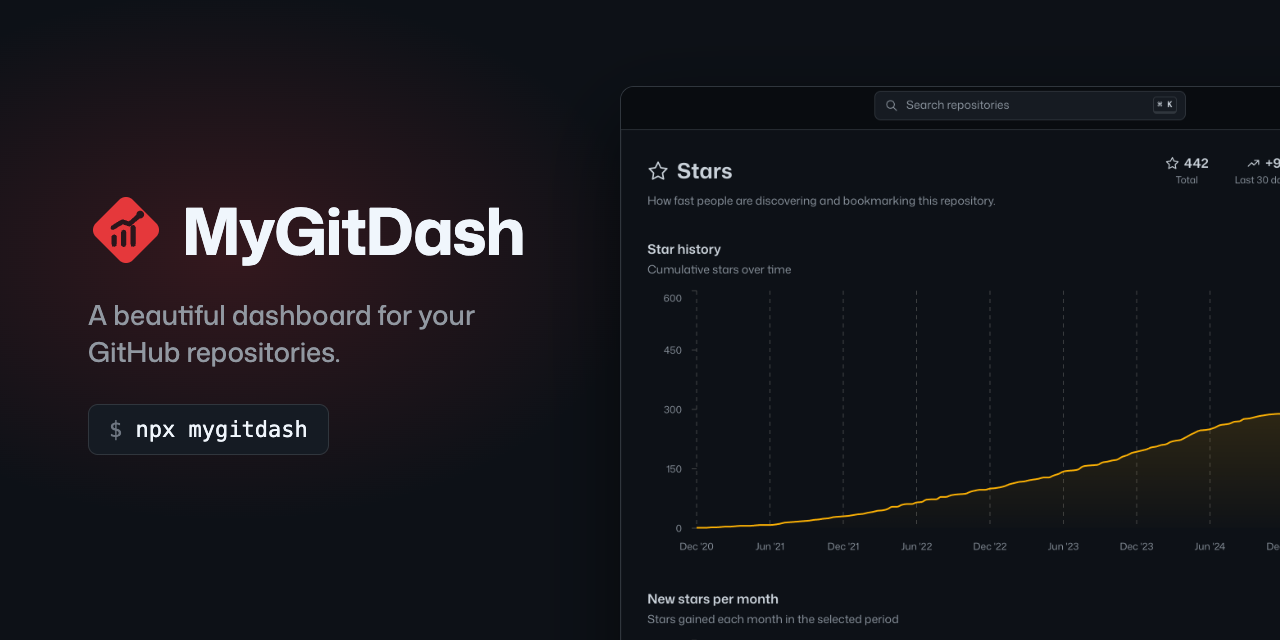
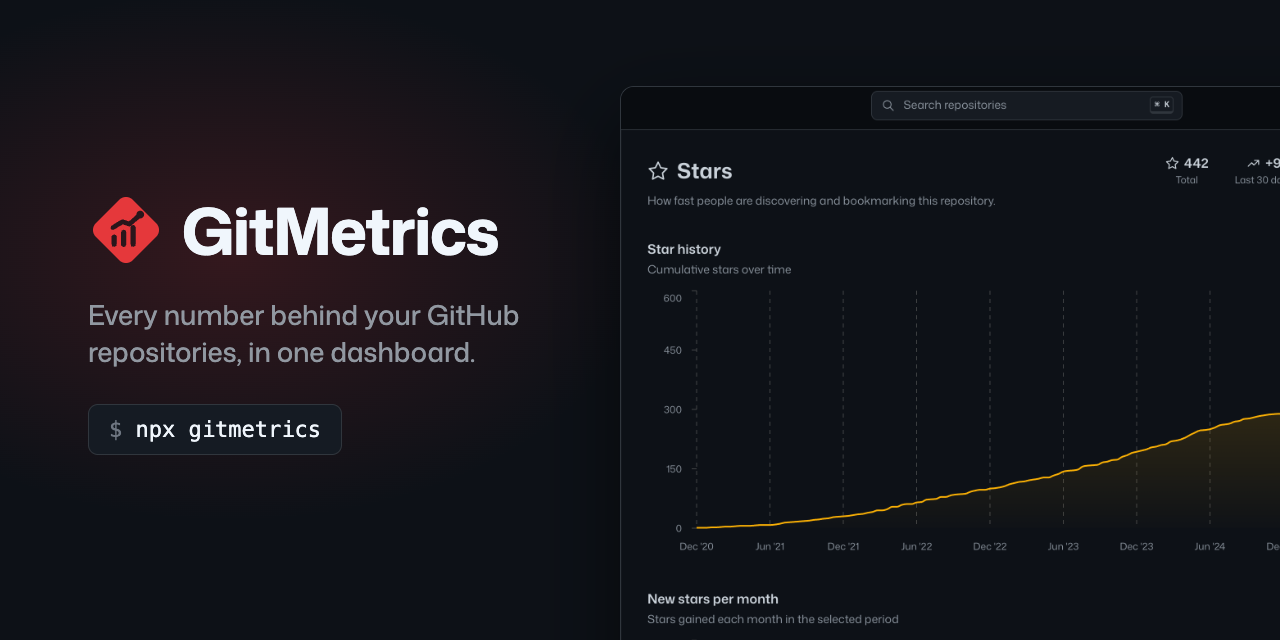
feat: rename the project to GitMetrics
The package, the command and every mention of the name move from
MyGitDash to GitMetrics, ahead of the first npm release.

diff --git a/src/web/pages/Settings.tsx b/src/web/pages/Settings.tsx
@@ -25,7 +25,7 @@ import { useAuth, useRateLimit } from '../lib/queries';
 
 const SOURCES = { device: 'GitHub sign-in', token: 'a personal access token', gh: 'the GitHub CLI session' };
 
-const REPO_URL = 'https://github.com/JeanExtreme002/MyGitDash';
+const REPO_URL = 'https://github.com/JeanExtreme002/GitMetrics';
 
 /** One setting: what it is on the left, the control on the right, separated by hairlines. */
 function Row({
@@ -82,7 +82,7 @@ export function Settings() {
       <PageHeader
         title="Settings"
         icon={<IconSettings size={26} stroke={1.6} />}
-        description="Your account, API usage and the data MyGitDash keeps on this computer."
+        description="Your account, API usage and the data GitMetrics keeps on this computer."
       />
 
       {viewer && (
@@ -140,7 +140,7 @@ export function Settings() {
 
         <Row
           title="API usage"
-          description="GitHub allows a fixed number of requests per hour. MyGitDash caches answers, so browsing costs little."
+          description="GitHub allows a fixed number of requests per hour. GitMetrics caches answers, so browsing costs little."
         >
           {rate.data ? (
             <Box>
@@ -166,7 +166,7 @@ export function Settings() {
           description="Your token, pinned repositories, saved traffic history and caches. Clearing the cache keeps the traffic history."
         >
           <Group justify="space-between" wrap="nowrap">
-            <Code>~/.mygitdash</Code>
+            <Code>~/.gitmetrics</Code>
             <Button variant="default" size="sm" leftSection={<IconTrash size={16} />} onClick={clearCache}>
               Clear cache
             </Button>
@@ -180,7 +180,7 @@ export function Settings() {
             <>
               Based on{' '}
               <Anchor href={REPO_URL} target="_blank" inherit underline="always">
-                MyGitDash
+                GitMetrics
               </Anchor>{' '}
               by Jean Loui Bernard Silva de Jesus. Free software under the{' '}
               <Anchor href={`${REPO_URL}/blob/main/LICENSE`} target="_blank" inherit underline="always">

diff --git a/tests/server.test.ts b/tests/server.test.ts
@@ -189,7 +189,7 @@ describe('local server', () => {
     app.request(url, { ...init, headers: { host: 'localhost:4280', ...init.headers } });
 
   beforeEach(() => {
-    dir = mkdtempSync(path.join(tmpdir(), 'mygitdash-'));
+    dir = mkdtempSync(path.join(tmpdir(), 'gitmetrics-'));
   });
 
   afterEach(() => rmSync(dir, { recursive: true, force: true }));
@@ -218,7 +218,7 @@ describe('local server', () => {
 
     const signIn = await request(app, '/api/auth/token', {
       method: 'POST',
-      headers: { 'x-mygitdash': '1', 'content-type': 'application/json' },
+      headers: { 'x-gitmetrics': '1', 'content-type': 'application/json' },
       body: JSON.stringify({ token: 'ghp_test' }),
     });
     expect(signIn.status).toBe(200);
@@ -240,7 +240,7 @@ describe('local server', () => {
     const app = make();
     await request(app, '/api/auth/token', {
       method: 'POST',
-      headers: { 'x-mygitdash': '1', 'content-type': 'application/json' },
+      headers: { 'x-gitmetrics': '1', 'content-type': 'application/json' },
       body: JSON.stringify({ token: 'ghp_test' }),
     });
     const overview = await (await request(app, '/api/repos/octocat/hello/overview')).json();
@@ -259,7 +259,7 @@ describe('local server', () => {
     const app = make();
     await request(app, '/api/auth/token', {
       method: 'POST',
-      headers: { 'x-mygitdash': '1', 'content-type': 'application/json' },
+      headers: { 'x-gitmetrics': '1', 'content-type': 'application/json' },
       body: JSON.stringify({ token: 'ghp_test' }),
     });
     expect(await (await request(app, '/api/rate-limit')).json()).toMatchObject({
@@ -271,7 +271,7 @@ describe('local server', () => {
 
   it('saves favorites and signs out', async () => {
     const app = make('gho_cli');
-    const headers = { 'x-mygitdash': '1', 'content-type': 'application/json' };
+    const headers = { 'x-gitmetrics': '1', 'content-type': 'application/json' };
     await request(app, '/api/auth/gh', { method: 'POST', headers });
     const saved = await request(app, '/api/favorites', {
       method: 'PUT',

diff --git a/src/server/cli.ts b/src/server/cli.ts
@@ -21,11 +21,11 @@ function version(): string {
 }
 
 const HELP = `
-MyGitDash ${version()}
+GitMetrics ${version()}
 A local dashboard for your GitHub repositories.
 
 Usage
-  mygitdash [options]
+  gitmetrics [options]
 
 Options
   -p, --port <number>  Port to listen on (default: ${DEFAULT_PORT})
@@ -34,8 +34,8 @@ Options
   -h, --help           Show this message
 
 Environment
-  MYGITDASH_HOME       Where MyGitDash keeps its data (default: ~/.mygitdash)
-  MYGITDASH_CLIENT_ID  Use your own GitHub OAuth App for "Sign in with GitHub"
+  GITMETRICS_HOME       Where GitMetrics keeps its data (default: ~/.gitmetrics)
+  GITMETRICS_CLIENT_ID  Use your own GitHub OAuth App for "Sign in with GitHub"
 `;
 
 interface Args {
@@ -66,7 +66,7 @@ function parseArgs(argv: string[]): Args {
     } else if (arg === '--dev') {
       args.dev = true;
     } else {
-      console.error(`Unknown option: ${arg}\nRun "mygitdash --help" to see the available options.`);
+      console.error(`Unknown option: ${arg}\nRun "gitmetrics --help" to see the available options.`);
       process.exit(1);
     }
   }
@@ -113,7 +113,7 @@ async function main() {
       console.log(`API ready on ${url} (open the Vite URL to use the app)`);
       return;
     }
-    console.log(`\n  MyGitDash ${version()} is running at ${url}`);
+    console.log(`\n  GitMetrics ${version()} is running at ${url}`);
     console.log(`  Data folder: ${defaultDataDir()}`);
     console.log('  Press Ctrl+C to stop.\n');
     if (args.open) openBrowser(url);

diff --git a/src/web/pages/Login.tsx b/src/web/pages/Login.tsx
@@ -27,13 +27,13 @@ import { post } from '../lib/api';
 import { useAuth } from '../lib/queries';
 
 const TOKEN_URL =
-  'https://github.com/settings/tokens/new?scopes=repo,read:user,read:org&description=MyGitDash';
+  'https://github.com/settings/tokens/new?scopes=repo,read:user,read:org&description=GitMetrics';
 
 function DeviceCode({ flow, onCancel }: { flow: DeviceStart; onCancel: () => void }) {
   return (
     <Stack gap="md" align="center" ta="center">
       <Text size="sm" c="dimmed">
-        Enter this code on GitHub to authorize MyGitDash
+        Enter this code on GitHub to authorize GitMetrics
       </Text>
       <Group gap="xs">
         <Text className="user-code">{flow.userCode}</Text>
@@ -152,7 +152,7 @@ export function Login() {
         <Stack align="center" gap={6} mb="xl" ta="center">
           <Logo size={52} />
           <Title order={1} fz={28} mt="sm">
-            Welcome to MyGitDash
+            Welcome to GitMetrics
           </Title>
           <Text c="dimmed">Everything about your repositories, in one calm place.</Text>
         </Stack>
@@ -246,7 +246,7 @@ export function Login() {
         </Paper>
 
         <Text size="xs" c="dimmed" ta="center" mt="lg">
-          MyGitDash runs only on this computer. Your token is stored in ~/.mygitdash and is sent to nothing
+          GitMetrics runs only on this computer. Your token is stored in ~/.gitmetrics and is sent to nothing
           but the GitHub API.
         </Text>
       </Box>

diff --git a/src/server/auth.ts b/src/server/auth.ts
@@ -3,15 +3,15 @@ import type { DevicePoll, DeviceStart, Viewer } from '../shared/types.js';
 import { GITHUB_API, GitHubError, USER_AGENT } from './github.js';
 
 /**
- * Client ID of the MyGitDash OAuth App (Device Flow enabled). Client IDs are public,
+ * Client ID of the GitMetrics OAuth App (Device Flow enabled). Client IDs are public,
  * so shipping it is safe; there is no client secret involved in the Device Flow.
- * Set MYGITDASH_CLIENT_ID to use your own OAuth App instead.
+ * Set GITMETRICS_CLIENT_ID to use your own OAuth App instead.
  */
 export const DEFAULT_CLIENT_ID = '';
 
 export const OAUTH_SCOPES = 'repo read:user read:org';
 
-export const clientId = () => process.env.MYGITDASH_CLIENT_ID || DEFAULT_CLIENT_ID;
+export const clientId = () => process.env.GITMETRICS_CLIENT_ID || DEFAULT_CLIENT_ID;
 
 interface GitHubUser {
   login: string;

diff --git a/src/server/store.ts b/src/server/store.ts
@@ -4,7 +4,7 @@ import { homedir } from 'node:os';
 import path from 'node:path';
 import type { AuthSource } from '../shared/types.js';
 
-export const defaultDataDir = () => process.env.MYGITDASH_HOME ?? path.join(homedir(), '.mygitdash');
+export const defaultDataDir = () => process.env.GITMETRICS_HOME ?? path.join(homedir(), '.gitmetrics');
 
 export interface StoredAuth {
   token: string;
@@ -32,7 +32,7 @@ function writePrivate(file: string, value: unknown) {
   writeFileSync(file, JSON.stringify(value, null, 2), { mode: 0o600 });
 }
 
-/** Persists the token and preferences in ~/.mygitdash/config.json (owner-only permissions). */
+/** Persists the token and preferences in ~/.gitmetrics/config.json (owner-only permissions). */
 export class ConfigStore {
   private readonly file: string;
 

diff --git a/src/web/pages/repo/Traffic.tsx b/src/web/pages/repo/Traffic.tsx
@@ -155,7 +155,7 @@ export function Traffic() {
                   title={kind === 'views' ? 'Page views' : 'Git clones'}
                   caption={
                     data.trackedSince
-                      ? `GitHub keeps 14 days of traffic. MyGitDash saves every snapshot on this computer, so history builds up from ${date(data.trackedSince)}.`
+                      ? `GitHub keeps 14 days of traffic. GitMetrics saves every snapshot on this computer, so history builds up from ${date(data.trackedSince)}.`
                       : 'The last 14 days, as reported by GitHub'
                   }
                   right={

diff --git a/src/web/pages/Home.tsx b/src/web/pages/Home.tsx
@@ -86,7 +86,7 @@ const rankingQuery = (mode: 'activity' | 'traffic') => ({
  * Stars come with the repository list; the other two are fetched when first needed.
  */
 function TopRepositories({ repos }: { repos: RepoSummary[] }) {
-  const [mode, setMode] = useLocalStorage<TopMode>({ key: 'mygitdash:top-mode', defaultValue: 'stars' });
+  const [mode, setMode] = useLocalStorage<TopMode>({ key: 'gitmetrics:top-mode', defaultValue: 'stars' });
   const ranking = useQuery({
     ...rankingQuery(mode === 'stars' ? 'activity' : mode),
     enabled: mode !== 'stars',

diff --git a/src/server/app.ts b/src/server/app.ts
@@ -61,7 +61,7 @@ export function createApp(options: AppOptions = {}) {
   app.use('*', async (c, next) => {
     const host = (c.req.header('host') ?? '').replace(/:\d+$/, '');
     if (!LOCAL_HOSTS.has(host)) return c.text('Forbidden', 403);
-    if (c.req.method !== 'GET' && c.req.path.startsWith('/api') && c.req.header('x-mygitdash') !== '1') {
+    if (c.req.method !== 'GET' && c.req.path.startsWith('/api') && c.req.header('x-gitmetrics') !== '1') {
       return c.json({ error: 'Missing request header.', status: 403 }, 403);
     }
     await next();

diff --git a/src/web/pages/repo/Overview.tsx b/src/web/pages/repo/Overview.tsx
@@ -140,7 +140,10 @@ function Counters({
 
 /** Star growth and commit activity behind one switch, drawn straight on the page. */
 function GrowthChart() {
-  const [view, setView] = useLocalStorage<Growth>({ key: 'mygitdash:overview-chart', defaultValue: 'stars' });
+  const [view, setView] = useLocalStorage<Growth>({
+    key: 'gitmetrics:overview-chart',
+    defaultValue: 'stars',
+  });
   const stars = useSection<StarsResponse>('stars');
   const commits = useSection<CommitsResponse>('commits');
 

diff --git a/tests/rankings.test.ts b/tests/rankings.test.ts
@@ -25,7 +25,7 @@ describe('activity ranking', () => {
 
 describe('traffic ranking', () => {
   it('ranks by unique visitors, skips repositories without access and stores history', async () => {
-    const dir = mkdtempSync(path.join(tmpdir(), 'mygitdash-'));
+    const dir = mkdtempSync(path.join(tmpdir(), 'gitmetrics-'));
     try {
       const fetchImpl = (async (input: string | URL | Request) => {
         const url = String(input);

diff --git a/src/web/components/ui.tsx b/src/web/components/ui.tsx
@@ -21,7 +21,7 @@ import { useId, type CSSProperties, type ReactNode } from 'react';
 export const LOGO_RED = '#E5383B';
 
 /**
- * The MyGitDash mark: a rounded red diamond with a chart cut out of it, rising bars with a
+ * The GitMetrics mark: a rounded red diamond with a chart cut out of it, rising bars with a
  * trend line above them.
  */
 export function Logo({ size = 32 }: { size?: number }) {
